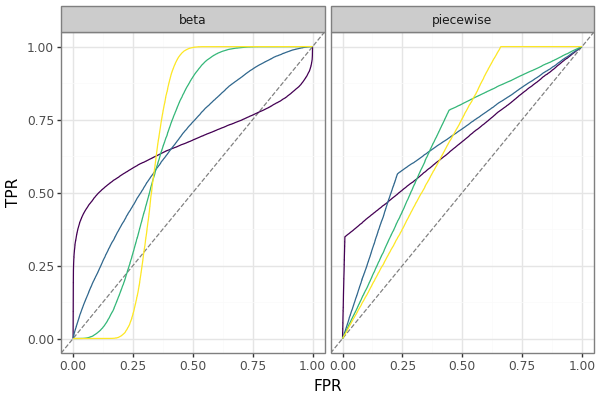
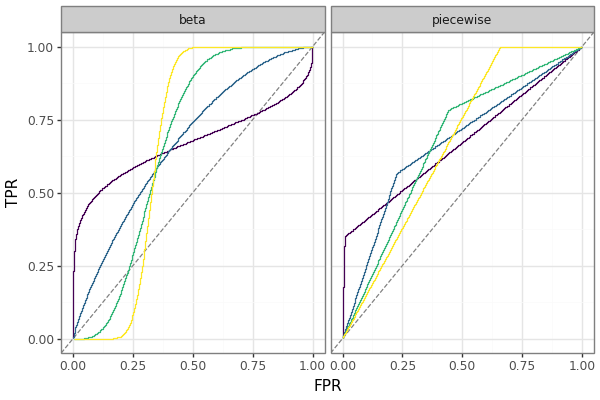
reduce error by enforcing ranking within bin

diff --git a/src/roctet/scores.py b/src/roctet/scores.py
@@ -1,4 +1,5 @@
 import polars as pl
+import numpy as np
 from numpy.random import default_rng
 
 
@@ -75,11 +76,15 @@ def _gen_scorebins_to_scores(
 
     def _score_fn(z):
         r = default_rng(int(seed) + int(z["_row_idx"]))
-        return r.uniform(low=z["score_min"], high=z["score_max"], size=z["n"]).tolist()
+        vals = r.uniform(low=z["score_min"], high=z["score_max"], size=z["n"])
+        return np.sort(vals).tolist()
 
     def _target_fn(z):
-        r = default_rng(int(seed) + int(z["_row_idx"]) + 1)
-        return r.binomial(n=1, p=z["n_pos"] / z["n"], size=z["n"]).tolist()
+        vals = np.append( 
+                    np.repeat(0, z["n_neg"]), 
+                    np.repeat(1, z["n_pos"])
+                        )
+        return np.sort(vals).tolist()
 
     df_scores = (
         df_scorebins
@@ -89,7 +94,7 @@ def _gen_scorebins_to_scores(
                 function=_score_fn,
                 return_dtype=pl.List(pl.Float64),
             ),
-            target=pl.struct("n", "n_pos", "_row_idx").map_elements(
+            target=pl.struct("n_pos", "n_neg").map_elements(
                 function=_target_fn,
                 return_dtype=pl.List(pl.Int64),
             ),